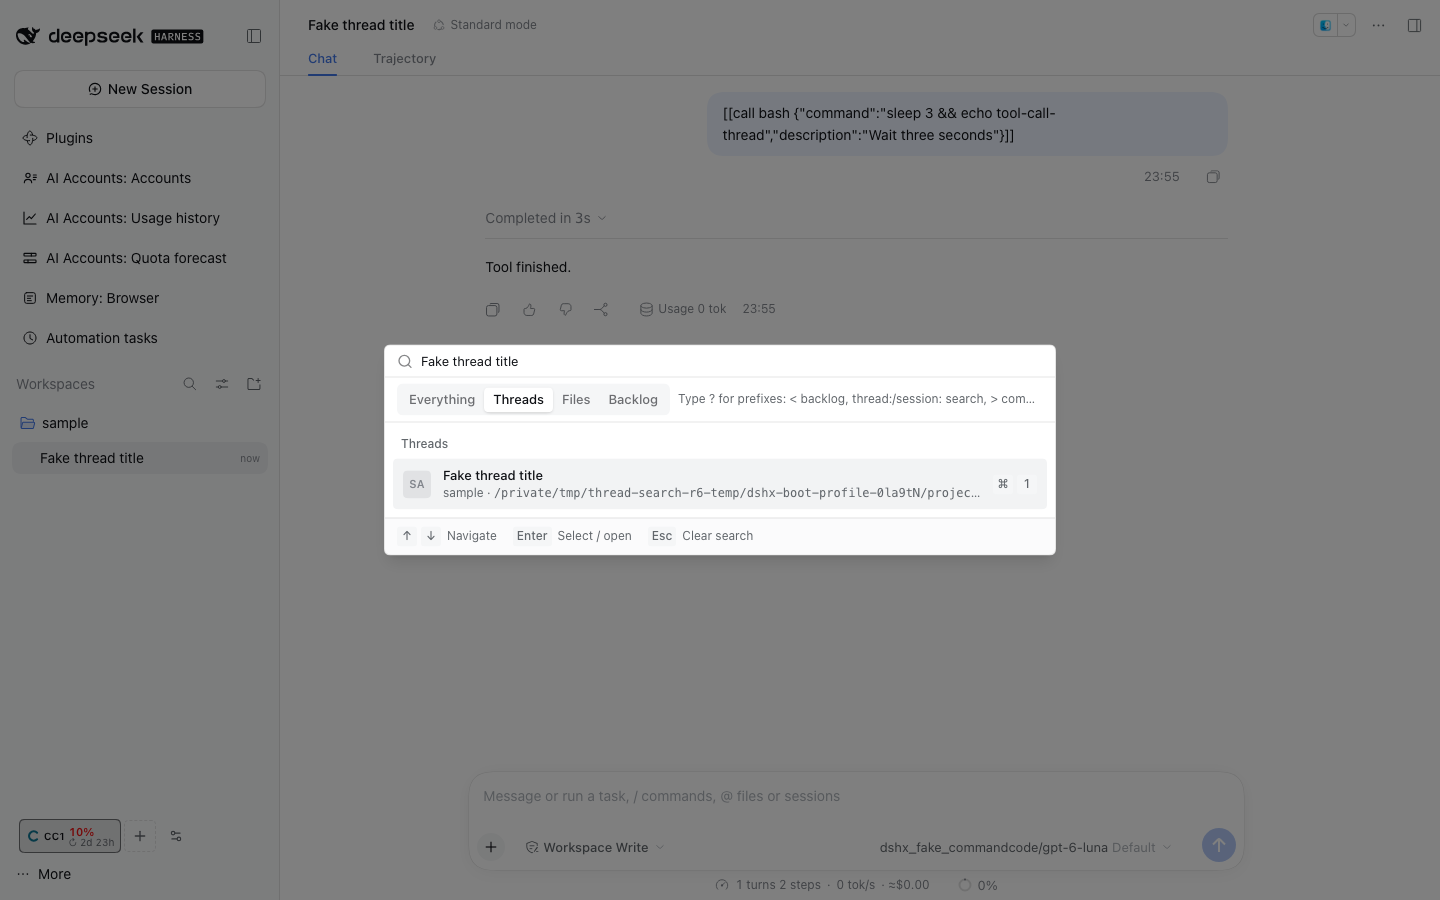
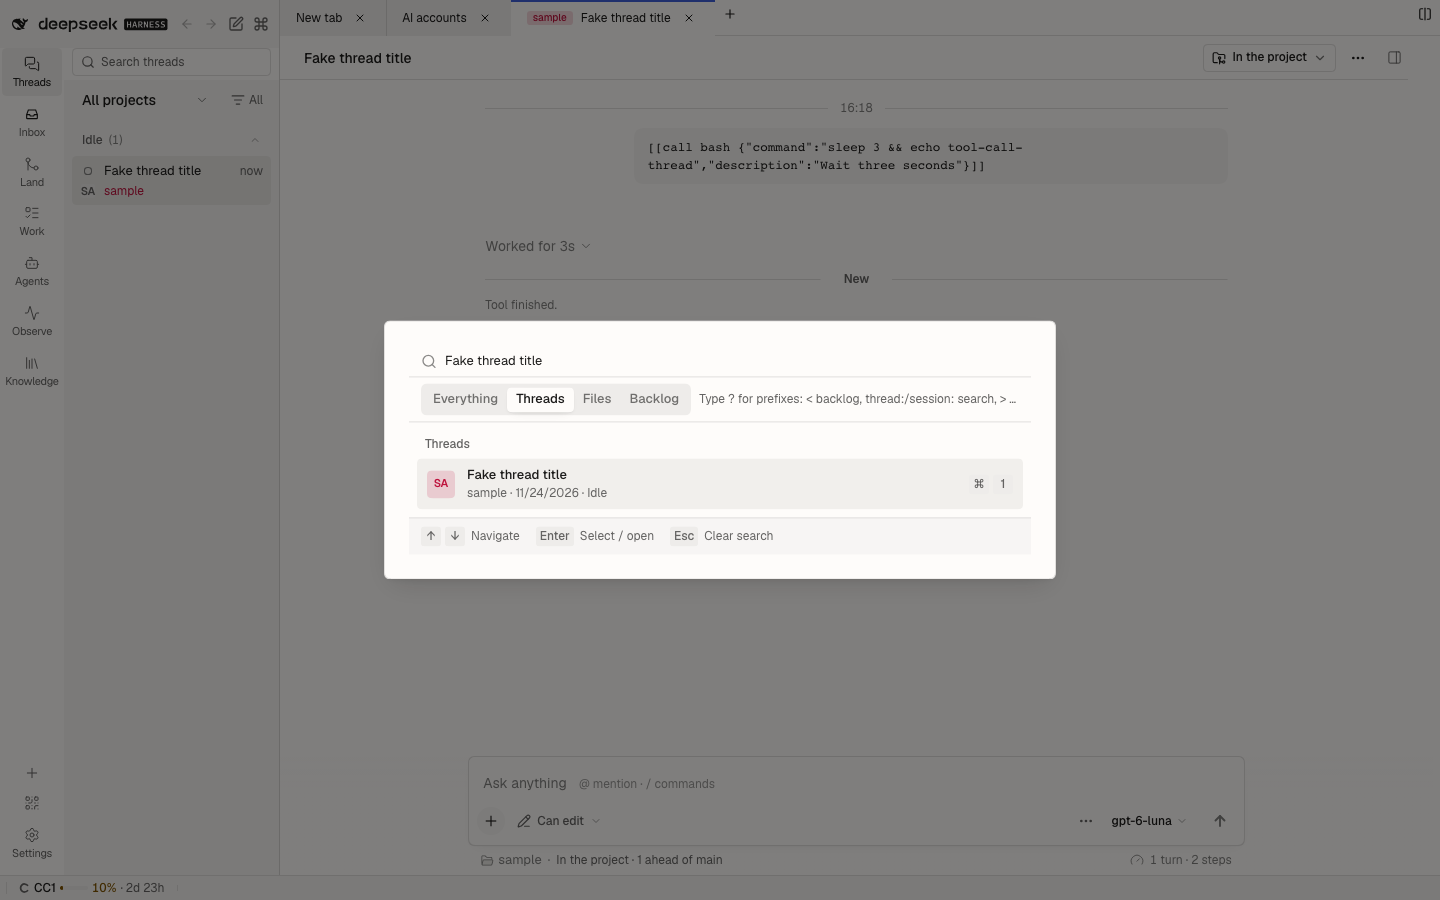
feat(command-palette): paint palette project marks in the thread list's project colour
The palette hashed project names onto chart-1..5, which resolve to the status hues: a project could be green in the thread list and Failed-red in the palette. The palette cannot import the project picker (the picker already depends on the palette, so that would close a cycle), so it declares a PaletteProjectColors registry and the thread sidebar, which already depends on both, provides the same resolution its rows use: the picked colour, else the name's palette tone. A picked colour is clamped in lightness so it reads in both schemes. Without a source the marks stay neutral.

diff --git a/plugins/@dshfiles/command-palette/src/thread-palette.tsx b/plugins/@dshfiles/command-palette/src/thread-palette.tsx
@@ -12,10 +12,9 @@ import { useContentSearch, type ContentSearch } from './content-search-machine.j
 import { PaletteFrecency, paletteFrecency } from './frecency.js'
 import { paletteNavigationMachine } from './palette-navigation-machine.js'
 import { useWorkspaceFiles } from './workspace-files-machine.js'
-import { ProjectTone } from './project-tone.js'
 import { PaletteRules, type PalettePrefix, type ThreadCandidate } from './palette.js'
 import { PaletteApi } from './palette-api.js'
-import type { PaletteAction, PaletteActionContext, PaletteMode } from './palette-contract.js'
+import type { PaletteAction, PaletteActionContext, PaletteMode, PaletteProjectColor } from './palette-contract.js'
 import { paletteActionMachine } from './palette-action-machine.js'
 
 export interface ThreadPaletteCopy {
@@ -94,6 +93,8 @@ interface ThreadPaletteProps {
   readonly threads: readonly ThreadCandidate[]
   /** The current project's threads; when set, the Threads tab lists only these, while a session ID still finds any thread. */
   readonly projectThreads?: readonly ThreadCandidate[]
+  /** The colour the thread list gives a thread's project; without it, project marks stay neutral. */
+  readonly projectColorOf?: (thread: ThreadCandidate) => PaletteProjectColor | undefined
   readonly context: PaletteActionContext
   readonly additionalActions: readonly PaletteAction[]
   readonly recentLimit: number
@@ -141,6 +142,25 @@ const withoutRepeatedTitle = (snippet: string, title: string): string => {
     .slice(title.trim().length)
     .replace(/^[\s—–:-]+/u, '')
     .trim()
+}
+
+const neutralMark = 'dshx:bg-muted dshx:text-muted-foreground'
+
+/** A picked colour paints text only through a lightness clamp, so a pale or dark pick still reads in both schemes. */
+const customMarkText = 'dshx:text-(--chip-light) dshx:dark:text-(--chip-dark)'
+
+/** The project mark of a thread row: its project's identity colour as text on a 16% tint of it, else neutral. */
+const projectMark = (color: PaletteProjectColor | undefined): { readonly className: string; readonly style?: CSSProperties } => {
+  if (color === undefined || (color.className === undefined && color.color === undefined)) return { className: neutralMark }
+  const tint = 'color-mix(in srgb, currentColor 16%, transparent)'
+  if (color.color === undefined) return { className: color.className ?? '', style: { backgroundColor: tint } }
+  const style: CSSProperties = { backgroundColor: tint }
+  Object.assign(style, {
+    '--chip': color.color,
+    '--chip-light': 'oklch(from var(--chip) min(l, 0.52) c h)',
+    '--chip-dark': 'oklch(from var(--chip) max(l, 0.78) c h)',
+  })
+  return { className: customMarkText, style }
 }
 
 const projectLabel = (project: string): string => project.split(/[\\/]/u).filter(Boolean).at(-1) ?? project
@@ -815,13 +835,16 @@ export const ThreadPalette = (props: ThreadPaletteProps): JSX.Element => {
                 {threadRows.map(thread => {
                   const row: PaletteRow = { kind: 'thread', thread }
                   const project = thread.project.length > 0 ? thread.project : props.copy.unassigned
+                  const mark = thread.project.length > 0 ? projectMark(props.projectColorOf?.(thread)) : { className: neutralMark }
                   return (
                     <CommandItem key={thread.id} value={rowValue(row)} className={itemClass} onSelect={() => void activate(row)}>
                       <span
                         className={cn(
                           'dshx:flex dshx:size-7 dshx:shrink-0 dshx:items-center dshx:justify-center dshx:rounded-md dshx:text-2xs dshx:font-semibold',
-                          thread.project.length > 0 ? ProjectTone.glyph(project) : 'dshx:bg-muted dshx:text-muted-foreground',
+                          mark.className,
                         )}
+                        style={mark.style}
+                        data-palette-project-mark=""
                         aria-hidden="true"
                       >
                         {thread.project.length > 0 ? project.slice(0, 2).toLocaleUpperCase() : <MessageSquareIcon className="dshx:size-3.5" />}

diff --git a/plugins/@dshfiles/command-palette/src/thread-palette.client.test.tsx b/plugins/@dshfiles/command-palette/src/thread-palette.client.test.tsx
@@ -452,6 +452,64 @@ describe('Threads tab project scope', () => {
     expect(result.textContent).not.toContain('/dev/dshfiles')
   })
 
+  it('paints each project mark in the colour the thread list gives that project, never a status hue', async () => {
+    const colorOf = vi.fn((thread: { readonly project: string }) =>
+      thread.project === 'dshfiles' ? { className: 'project-tone-balanced-3' } : { color: '#ffd400' },
+    )
+    render(
+      <ThreadPalette
+        mode="all"
+        threads={[here, elsewhere, { id: 'session-loose', title: 'Loose work', project: '', cwd: '', updatedAt: 0 }]}
+        projectColorOf={colorOf}
+        context={context}
+        additionalActions={[]}
+        recentLimit={6}
+        mac
+        copy={copy}
+        searchContent={null}
+        onAsk={vi.fn(async () => {})}
+        onBacklogCapture={vi.fn()}
+        onOpenThread={vi.fn()}
+        onClose={vi.fn()}
+      />,
+    )
+    const markOf = async (name: RegExp) => (await screen.findByRole('option', { name })).querySelector<HTMLElement>('[data-palette-project-mark]')
+    const tone = await markOf(/Here work/)
+    expect(tone?.className).toContain('project-tone-balanced-3')
+    expect(tone?.className).not.toMatch(/chart-/u)
+    const custom = await markOf(/Elsewhere work/)
+    // A picked colour stays readable: the mark clamps its lightness instead of painting the raw pick as text.
+    expect(custom?.style.getPropertyValue('--chip')).toBe('#ffd400')
+    expect(custom?.style.getPropertyValue('--chip-light')).toBe('oklch(from var(--chip) min(l, 0.52) c h)')
+    expect(custom?.className).toContain('dshx:text-(--chip-light)')
+    expect(custom?.className).not.toMatch(/chart-/u)
+    const loose = await markOf(/Loose work/)
+    expect(loose?.className).toContain('dshx:bg-muted')
+    expect(colorOf).not.toHaveBeenCalledWith(expect.objectContaining({ id: 'session-loose' }))
+  })
+
+  it('keeps project marks neutral when nothing provides project colours', async () => {
+    render(
+      <ThreadPalette
+        mode="all"
+        threads={[here]}
+        context={context}
+        additionalActions={[]}
+        recentLimit={6}
+        mac
+        copy={copy}
+        searchContent={null}
+        onAsk={vi.fn(async () => {})}
+        onBacklogCapture={vi.fn()}
+        onOpenThread={vi.fn()}
+        onClose={vi.fn()}
+      />,
+    )
+    const mark = (await screen.findByRole('option', { name: /Here work/ })).querySelector<HTMLElement>('[data-palette-project-mark]')
+    expect(mark?.className).toContain('dshx:bg-muted')
+    expect(mark?.className).not.toMatch(/chart-/u)
+  })
+
   it('lists only the current project on Threads and every project on Everything', async () => {
     const view = (mode: 'all' | 'threads') =>
       render(

diff --git a/plugins/@dshfiles/command-palette/src/client.tsx b/plugins/@dshfiles/command-palette/src/client.tsx
@@ -10,8 +10,8 @@ import type { SidebarRootComponentProps } from '@deepseek-ai/dsh-client-ui-sideb
 import type { PropsLocale, PropsRuntime, TranslateNS } from '@deepseek-ai/dsh-client-ui-slots'
 import type { WorkspaceBrowserProps } from '@deepseek-ai/dsh-client-ui-workspace/client'
 import { dshxRegistryApi } from '@dshfiles/dshx/api'
-import { Command, createApiClient, createRegisteredApiClient, defineClient, useSettings } from '@dshfiles/dshx/client'
-import { PaletteRules } from './palette.js'
+import { Command, createApiClient, createRegisteredApiClient, defineClient, useRegistry, useSettings } from '@dshfiles/dshx/client'
+import { PaletteRules, type ThreadCandidate } from './palette.js'
 import { paletteSettings, type PaletteSettings } from './settings.js'
 import { askDsh } from './ask-dsh.js'
 import { createThreadContentSearch } from './thread-content-source.js'
@@ -24,6 +24,7 @@ import { ContributedCommandsModel } from './contributed-commands.js'
 import {
   CommandPalette,
   PaletteActions,
+  PaletteProjectColors,
   type CommandPaletteState,
   type PaletteAction,
   type PaletteActionContext,
@@ -196,6 +197,13 @@ const PaletteCatalog = (props: PaletteCatalogProps): JSX.Element => {
     [archivedSessionIds, projectTitleOf, sessions, sessionsById, workspaceBySession, workspacePathById],
   )
   const threads = useMemo(() => threadEntries.map(entry => entry.thread), [threadEntries])
+  // The thread list resolves project colours (a picked colour, else its own palette); the palette borrows the latest source.
+  const projectColorSource = useRegistry(PaletteProjectColors).at(-1)
+  const projectColorOf = useMemo(() => {
+    if (projectColorSource === undefined) return undefined
+    const repositoryById = new Map<string, string | undefined>(threadEntries.map(entry => [entry.thread.id, entry.repository]))
+    return (thread: ThreadCandidate) => projectColorSource.colorOf({ path: repositoryById.get(thread.id), title: thread.project })
+  }, [projectColorSource, threadEntries])
   const threadsScope = (useSettings(paletteSettings).value ?? defaultSettings).threadsScope
   const currentRepository = threadsScope === 'project' ? repositoryOf(askWorkspaceId) : undefined
   const projectThreads = useMemo(
@@ -223,6 +231,7 @@ const PaletteCatalog = (props: PaletteCatalogProps): JSX.Element => {
       mode={mode}
       threads={threads}
       {...(projectThreads === undefined ? {} : { projectThreads })}
+      {...(projectColorOf === undefined ? {} : { projectColorOf })}
       context={context}
       additionalActions={workspaceActions}
       recentLimit={recentLimit}

diff --git a/plugins/@dshfiles/thread-sidebar/src/client.tsx b/plugins/@dshfiles/thread-sidebar/src/client.tsx
@@ -175,6 +175,7 @@ import { ThreadReferencesItems } from './thread-references-menu.js'
 import { ContinueInProjectItems } from './continue-in-menu.js'
 import { projectTextTone } from './project-tone.js'
 import { useSavedProjectChip } from './project-colors.js'
+import { PaletteProjectColorsModel } from './palette-project-colors.js'
 import { useThreadDirectories } from './use-thread-directories.js'
 import {
   failedResumeNotice,
@@ -5827,6 +5828,11 @@ const ThreadSidebarContent = (props: ThreadSidebarProps): JSX.Element => {
     enabled: !isBoard,
   }
   const savedProjectChipOf = useSavedProjectChip()
+  // The command palette paints project marks with the colours these rows use (round two, item 13).
+  useEffect(() => {
+    if (!isPrimarySurface) return
+    return PaletteBridge.addProjectColors(PaletteProjectColorsModel.sourceOf({ savedChipOf: savedProjectChipOf, palette: preferences.projectColorPalette }))
+  }, [isPrimarySurface, preferences.projectColorPalette, savedProjectChipOf])
   const renderThreadRow = (session: SessionSummary, attentionLabel: ThreadRowProps['attentionLabel'], section?: SidebarSection): JSX.Element => {
     const lineage = SidebarOrganization.sessionLineage(session, sessionState.byId)
     const workspaceId = SidebarOrganization.workspaceForLineage(session, sessionState.byId, workspaceBySession)

diff --git a/plugins/@dshfiles/thread-sidebar/src/palette-bridge.ts b/plugins/@dshfiles/thread-sidebar/src/palette-bridge.ts
@@ -1,4 +1,11 @@
-import { CommandPalette, PaletteActions, type PaletteAction, type PaletteMode } from '@dshfiles/command-palette/palette-contract'
+import {
+  CommandPalette,
+  PaletteActions,
+  PaletteProjectColors,
+  type PaletteAction,
+  type PaletteMode,
+  type PaletteProjectColorSource,
+} from '@dshfiles/command-palette/palette-contract'
 import type { PluginContext } from '@dshfiles/dshx/client'
 
 const DEFAULT_RECENT_LIMIT = 10
@@ -62,6 +69,10 @@ const addActionsTo = (plugin: PluginContext, actions: readonly PaletteAction[]):
   }
 }
 
+/** Give the palette the thread list's project colours until the returned disposer runs. */
+const addProjectColors = (source: PaletteProjectColorSource): (() => void) =>
+  sidebarPlugin === undefined ? () => {} : sidebarPlugin.add(PaletteProjectColors, source)
+
 const open = (mode: PaletteMode): void => activePalette()?.open(mode)
 
 const close = (): void => activePalette()?.close()
@@ -74,6 +85,7 @@ const setRecentLimit = (limit: number): void => {
 export class PaletteBridge {
   static readonly connect = connect
   static readonly addActions = addActions
+  static readonly addProjectColors = addProjectColors
   static readonly open = open
   static readonly close = close
   static readonly setRecentLimit = setRecentLimit

diff --git a/plugins/@dshfiles/command-palette/src/palette-contract.ts b/plugins/@dshfiles/command-palette/src/palette-contract.ts
@@ -69,6 +69,21 @@ export interface CommandPaletteService {
   readonly state: Subscribable<CommandPaletteState>
 }
 
+/** The colour one project wears: a theme-aware class that sets `color:`, or a CSS colour the operator picked. */
+export interface PaletteProjectColor {
+  readonly className?: string
+  readonly color?: string
+}
+
+/** Paints a thread row's project mark, so a project wears the same colour in the palette as in the thread list. */
+export interface PaletteProjectColorSource {
+  /** `path` is the project folder (a thread workspace resolves to the repository it was cut from), `title` its name. */
+  readonly colorOf: (project: { readonly path: string | undefined; readonly title: string }) => PaletteProjectColor | undefined
+}
+
+/** The plugin that owns project colours adds one source; the latest wins. Without one, project marks stay neutral ink. */
+export const PaletteProjectColors = defineRegistry<PaletteProjectColorSource>('@dshfiles/command-palette.project-color')
+
 /** Rows other plugins add with `api.add(PaletteActions, action)`; they wait here while the palette loads. */
 export const PaletteActions = defineRegistry<PaletteAction>('@dshfiles/command-palette.action')
 

diff --git a/plugins/@dshfiles/thread-sidebar/src/palette-project-colors.test.ts b/plugins/@dshfiles/thread-sidebar/src/palette-project-colors.test.ts
@@ -1,0 +1,18 @@
+import { expect, test } from 'vitest'
+import { PaletteProjectColorsModel } from './palette-project-colors.js'
+import { projectTextTone } from './project-tone.js'
+
+const saved = new Map([['/dev/welii', { color: '#ffd400' }]])
+const source = PaletteProjectColorsModel.sourceOf({ savedChipOf: path => saved.get(path), palette: 'cool' })
+
+test('the palette gets the colour a thread row paints for the same project', () => {
+  // A picked colour wins, keyed by the project folder, exactly as the row's chip resolves it.
+  expect(source.colorOf({ path: '/dev/welii', title: 'welii' })).toEqual({ color: '#ffd400' })
+  // Otherwise the name's tone in the list's chosen palette, the class the row's project name wears.
+  expect(source.colorOf({ path: '/dev/dshfiles', title: 'dshfiles' })).toEqual({ className: projectTextTone('dshfiles', 'cool') })
+  expect(source.colorOf({ path: undefined, title: 'dshfiles' })).toEqual({ className: projectTextTone('dshfiles', 'cool') })
+})
+
+test('a thread without a project gets no colour', () => {
+  expect(source.colorOf({ path: undefined, title: '' })).toBeUndefined()
+})

diff --git a/plugins/@dshfiles/thread-sidebar/src/palette-project-colors.ts b/plugins/@dshfiles/thread-sidebar/src/palette-project-colors.ts
@@ -1,0 +1,21 @@
+import type { PaletteProjectColorSource } from '@dshfiles/command-palette/palette-contract'
+import type { ProjectColorPalette } from './organization.js'
+import type { ProjectChip } from './project-colors.js'
+import { projectTextTone } from './project-tone.js'
+
+/**
+ * The command palette's project marks wear the thread list's colours, resolved as a row resolves them: the colour picked
+ * for the project folder, else the palette tone its name hashes to. The palette cannot import the project picker (it
+ * already depends on the palette), so the thread list hands its resolution over through the palette's registry.
+ */
+const sourceOf = (input: {
+  readonly savedChipOf: (path: string) => ProjectChip | undefined
+  readonly palette: ProjectColorPalette
+}): PaletteProjectColorSource => ({
+  colorOf: ({ path, title }) =>
+    (path === undefined ? undefined : input.savedChipOf(path)) ?? (title.length === 0 ? undefined : { className: projectTextTone(title, input.palette) }),
+})
+
+export class PaletteProjectColorsModel {
+  static readonly sourceOf = sourceOf
+}

diff --git a/plugins/@dshfiles/command-palette/README.md b/plugins/@dshfiles/command-palette/README.md
@@ -70,6 +70,8 @@ IDs must begin with the registering plugin's scope (`@scope/plugin/...`); a row 
 
 Rows wait in the dshx registry while the palette loads, so contributors never wait for it. To open, close or size the palette, follow its `CommandPalette` contract: `api.use(CommandPalette)` is `active` while the palette runs and offers `open(mode)`, `close()`, `setRecentLimit(n)` and its `state`.
 
+Each thread row in the palette shows a project mark. The plugin that owns project colours adds one `PaletteProjectColors` source (`colorOf({ path, title })` returns a class that sets `color:`, or a CSS colour). The thread sidebar adds it, so a project has the same colour in the palette as in the thread list. Without a source the marks stay neutral, and a status hue is never used as a project colour.
+
 ## Build and verify
 
 ```sh
